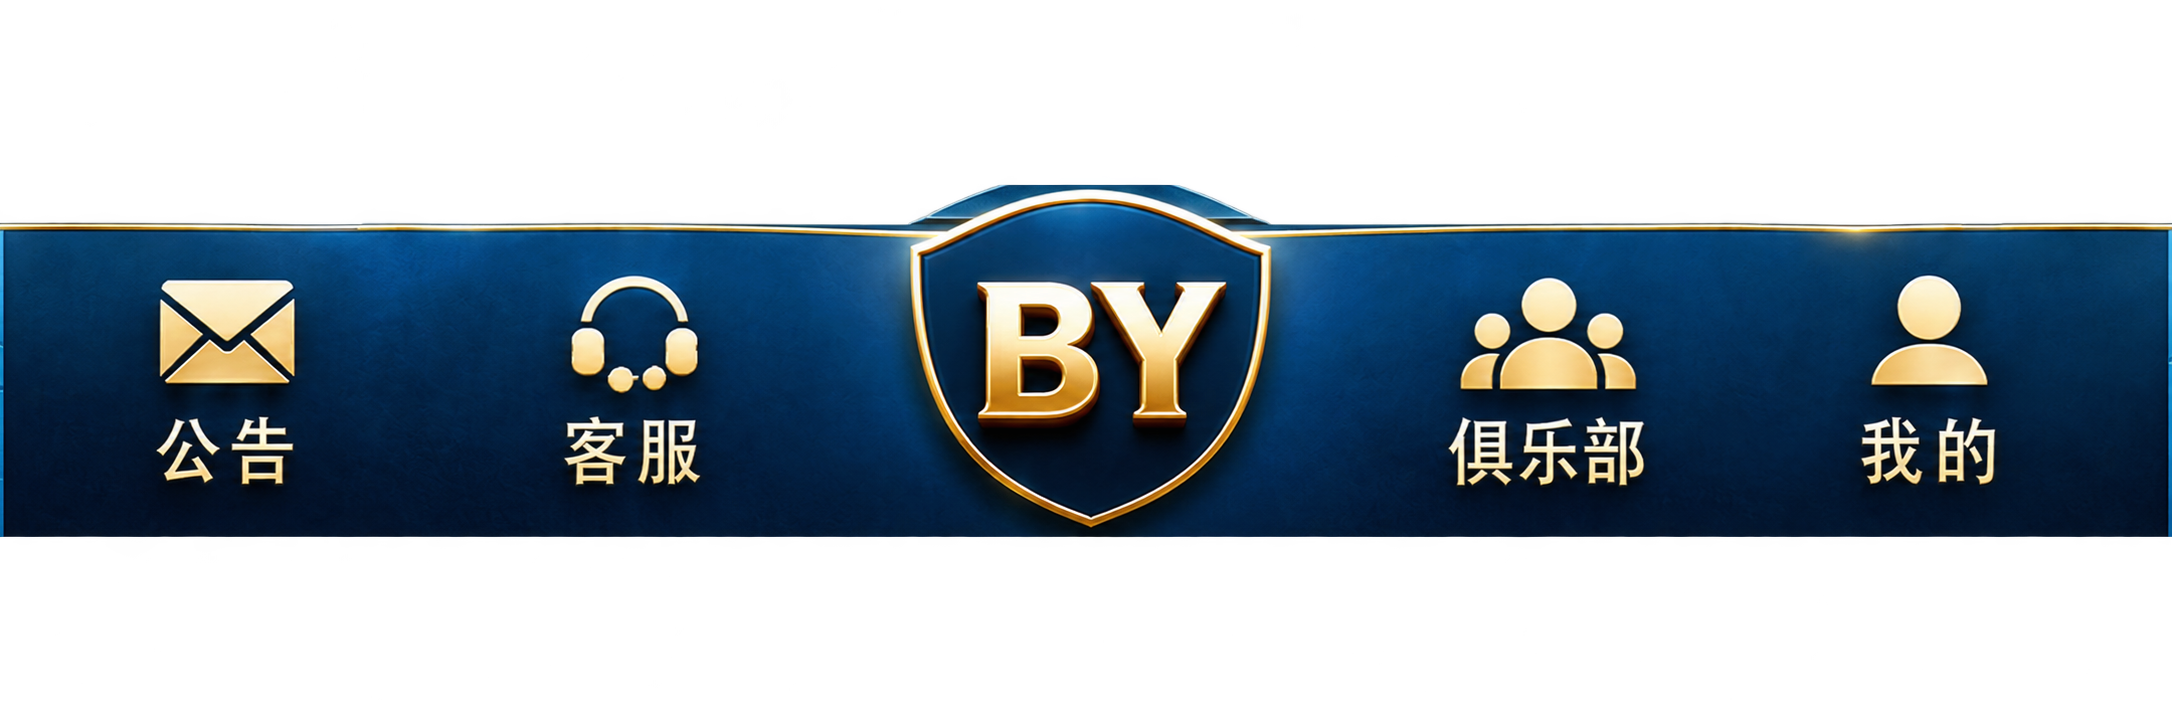
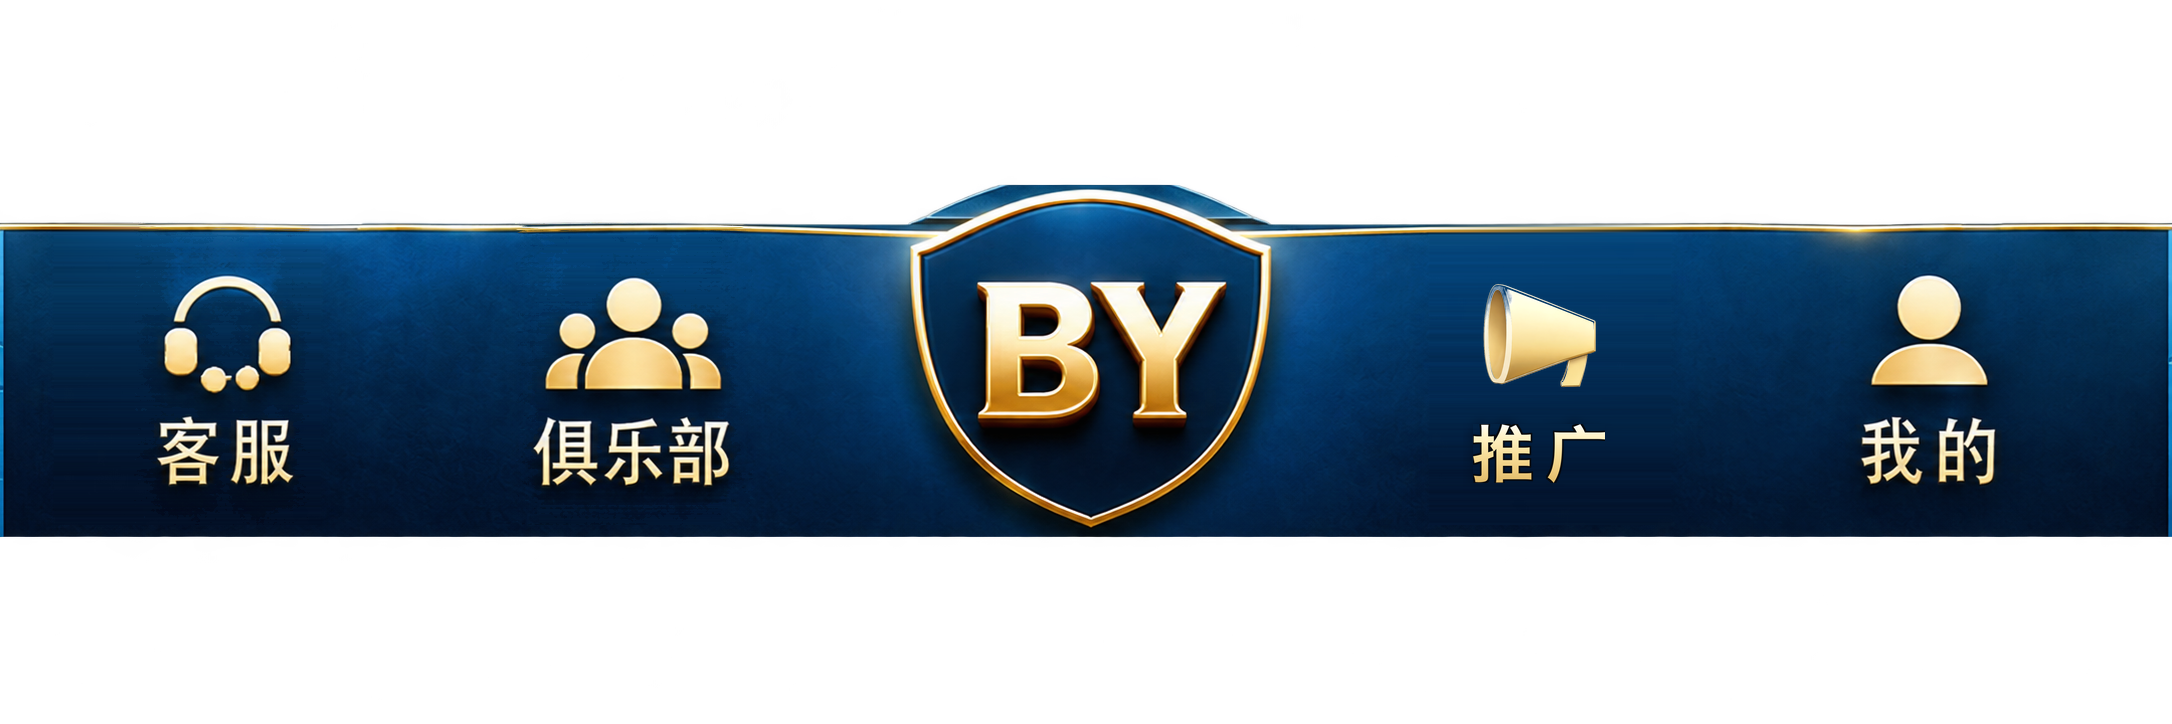
客户端：底栏改为客服 俱乐部 BY 推广 我的，隐藏「我的」里的游戏推广入口
- Down 重排 5 个入口并重绘 club_nav_bar_v8.png：客服/俱乐部换位、新增推广喇叭图标与标签、清掉公告；
  保留节点 id、Toggle/ToggleGroup、checkmark 与 .meta UUID。
- 推广复用全屏推广二维码页，打开收起底栏、关闭后恢复底栏并回到进入前分页；Main/公告 页保留但底栏不再进入。
- 「我的」列表里的游戏推广行隐藏，按钮区收为 3 行，滚动内容高 656→550、456→350，避免底部空白。

diff --git a/assets/scripts/UI/panelMain.ts b/assets/scripts/UI/panelMain.ts
@@ -313,9 +313,17 @@ export default class panelMain extends UIPanelViewBase {
         GameDataManager.getInstance().dtLastSuccess = new Date().getTime();
     }
 
+    /** 底部「推广」进入前所在的分页，关闭推广页后回到这里。 */
+    private promotionTabReturn:string = "";
+    /** 推广页是否顺带收起了底栏，关闭时按需恢复。 */
+    private promotionHidDown:boolean = false;
+    /** 当前 Main 分页名；推广页关闭后据此恢复底栏选中态。 */
+    private currentMainTab:string = "发现";
+
     /** 大厅初次打开或重新启用时，推广分享页必须保持关闭。 */
     private HidePromotionPanelOnLobbyOpen()
     {
+        this.promotionTabReturn = "";
         this.ClosePromotionPanel();
     }
 
@@ -339,6 +347,13 @@ export default class panelMain extends UIPanelViewBase {
         promotionPanel.active = true;
         if(this.promotionReturnPanel)
             this.promotionReturnPanel.active = false;
+        // 推广页背景不吞触摸，底栏留着会被点穿；它本来也被整页盖住，直接收起。
+        const down = this.node.getChildByName("Down");
+        if(down && down.active)
+        {
+            this.promotionHidDown = true;
+            down.active = false;
+        }
         return true;
     }
 
@@ -351,6 +366,11 @@ export default class panelMain extends UIPanelViewBase {
         this.promotionReturnPanel = null;
         if(cc.isValid(returnPanel) && returnPanel.parent === this.node.parent)
             returnPanel.active = true;
+        if(this.promotionHidDown)
+        {
+            this.promotionHidDown = false;
+            this.node.getChildByName("Down").active = true;
+        }
     }
 
     /** 推广页那一行显示的是「当前俱乐部邀请码」，没有俱乐部时整行（文字 + 复制按钮）都不显示。 */
@@ -858,15 +878,9 @@ export default class panelMain extends UIPanelViewBase {
         if(operation == null)
             return;
 
-        let isAgent = this.IsCurrentUserAgent();
         // 俱乐部模式不提供代理入口，包括旧 Prefab 中的同名节点。
         for(const child of operation.children)
             if(child.name === "代理") child.active = false;
-
-        // 游戏推广入口与代理入口同规则：非代理不显示，只有代理才显示。
-        let promotion = Tool.GetChild(operation,"推广二维码");
-        if(promotion != null)
-            promotion.active = isAgent;
 
         // 原生 Prefab Grid 按已激活入口自动补位，布局不再使用旧稿坐标。
     }
@@ -1024,6 +1038,8 @@ export default class panelMain extends UIPanelViewBase {
         }
         else if(button.node.name == "推广二维码")
         {
+            // 「我的」里的入口不算底栏选中，关闭后保持「我的」即可。
+            this.promotionTabReturn = "";
             this.OpenPromotionPanel();
         }
         else if(button.node.name === "保存二维码")
@@ -1081,7 +1097,14 @@ export default class panelMain extends UIPanelViewBase {
         else if(button.node.name === "关闭上上层")
         {
             if(button.node.parent.parent === this.node.getChildByName("推广二维码"))
+            {
+                const tab = this.promotionTabReturn;
+                this.promotionTabReturn = "";
                 this.ClosePromotionPanel();
+                // 从底栏「推广」进来的，关掉后把底栏选中态恢复到进入前的分页。
+                if(tab)
+                    this.switchTabSel(tab);
+            }
             else
                 button.node.parent.parent.active = false;
         }
@@ -1855,9 +1878,12 @@ export default class panelMain extends UIPanelViewBase {
             this.switchTabSel(toggle.node.name);
             this.getAllRooms();
         }
-        else if(toggle.node.name === "公告")
+        else if(toggle.node.name === "推广")
         {
-            this.switchTabSel(toggle.node.name);
+            // 推广是独立全屏分享页，不占用 Main 分页；关闭后回到进入前的分页。
+            this.promotionTabReturn = this.currentMainTab;
+            if(!this.OpenPromotionPanel())
+                this.switchTabSel(this.promotionTabReturn || "发现");
         }
         else if(toggle.node.name === "兑换")
         {
@@ -2177,16 +2203,20 @@ export default class panelMain extends UIPanelViewBase {
             this.walletReturnToCashWater = false;
         }
         let arrayTemp = this.node.getChildByName("Main").children;
+        let switchedToPage = false;
         arrayTemp.forEach((item,idx,array)=>{
             if(item.name == strName)
             {
                 item.active = true;
+                switchedToPage = true;
             }
             else
             {
                 item.active = false;
             }
         });
+        if(switchedToPage)
+            this.currentMainTab = strName;
 
         //复位Toggle
         let arrayToggle = this.node.getChildByName("Down").getComponentsInChildren(cc.Toggle);
@@ -2239,7 +2269,7 @@ export default class panelMain extends UIPanelViewBase {
             }
             if(view.height <= 0)
                 return;
-            // 内容高度按「有没有当前俱乐部卡片」取 656 / 456，统一由俱乐部视图计算。
+            // 内容高度按「有没有当前俱乐部卡片」取 550 / 350，统一由俱乐部视图计算。
             if(this.clubManagement)
                 this.clubManagement.syncProfileScroll();
             const scrollView = scroll.getComponent(cc.ScrollView);

diff --git a/assets/scripts/UI/ClubManagementView.ts b/assets/scripts/UI/ClubManagementView.ts
@@ -203,8 +203,8 @@ export default class ClubManagementView {
         this.syncProfileScroll(!!next.id);
     }
     /**
-     * 「我的」滚动区内容高度：有卡片时 656（按钮区 419.76 + 间距 12 + 卡片 200 + 底部留白 24），
-     * 无卡片时去掉卡片与间距只剩 456；内容不高于可视区时撑满 view，避免可滚动的空白。
+     * 「我的」滚动区内容高度：有卡片时 550（按钮区 314.05 + 间距 12 + 卡片 200 + 底部留白 24），
+     * 正好等于可视区高度；无卡片时只剩按钮区 350，内容不高于可视区时撑满 view，避免可滚动的空白。
      */
     public syncProfileScroll(hasClub?:boolean):void {
         if(hasClub === undefined) {
@@ -215,7 +215,7 @@ export default class ClubManagementView {
         const view = this.at("Main/我的/滚动区/view");
         if(!content) return;
         const viewHeight = view ? view.height : 0;
-        const height = Math.max(hasClub ? 656 : 456,viewHeight);
+        const height = Math.max(hasClub ? 550 : 350,viewHeight);
         if(Math.abs(content.height - height) > 0.5) content.height = height;
         // content 顶部锚点，贴住 view 顶边；否则缩高后内容会整体下移。
         if(view) content.setPosition(0,viewHeight / 2);

diff --git a/docs/memory/CURRENT.md b/docs/memory/CURRENT.md
@@ -4,6 +4,12 @@
 
 规则见 `AGENTS.md`；版本与 UI 见 [决策](DECISIONS.md)、[专题](topics/v7-ui.md)。未发布与待验证汇总见[剩余问题清单](handoffs/2026-10-28-open-issues-backlog.md)。客服网页已部署、真机待验：[交接](handoffs/2026-09-24-chat-keyboard-visibility.md)。
 
+## 2026-10-30 大厅底栏改「客服 俱乐部 BY 推广 我的」（未构建、未真机）
+
+- `Down` 改为 客服/俱乐部/BY/推广/我的（原「公告」toggle 改名推广，客服仍是 Button）；`Main/公告` 分页保留但底栏不再进入。
+- `club_nav_bar_v8.png` 重绘并清掉公告区，`.meta`/UUID 未动、体积未增；推广复用全屏 `推广二维码` 页，打开收起底栏、关闭回原页。
+- 「我的」里的游戏推广行隐藏（按钮区 3 行、内容高 550，正好不滚）。见[交接](handoffs/2026-10-30-nav-tabs.md)。
+
 ## 2026-10-30 机器人账号首次登录激活（已部署，未提交）
 
 - 问题：新建机器人只写营销表，游戏库 `kbe_accountinfos` 玩家行由首次登录生成；没登录过的账号入会回「玩家不存在」，
@@ -13,20 +19,18 @@
   登录成功后回查游戏库确认建号才落 `activated_at`、收回节点并自动补入会。失败记原因、让出节点，60 秒冷却、最多 10 次。
 - 投放：未激活行不可勾选，直接提交回 `409 ROBOT_NOT_ACTIVATED`；分组投放只取已激活账号。机器人管理显示未激活与原因，
   并加「激活」动作（重置冷却）。
-- 已部署：后端 `0c602dbd…`（PID 15511，健康 200）、前端 `index-BgH2Ot-G.js` / `index-BvCWh9Hq.css`；
-  回滚 `backups/xuanmanager.20261030-0108-rollback`、`web.previous-activation-20261030`。
+- 已部署：后端 `0c602dbd…`、前端 `index-BgH2Ot-G.js` / `index-BvCWh9Hq.css`；回滚 `backups/xuanmanager.20261030-0108-rollback`、`web.previous-activation-20261030`。
 - **真实激活未演练**：唯一 Worker `mac-mini-2-local` 自 10-28 离线；本机 `bin/xuanagent` 已重建（含 `XUAN_LOGIN_ONLY`），待启动。
   见[交接](handoffs/2026-10-30-account-activation.md)。
 
 ## 2026-10-29 投放输赢目标支持「按周时段」（已部署，未提交）
 
-- 输赢目标新增 `profit_mode='schedule'`：周一到周日勾选，每天可多段（≤28），结束早于开始=跨零点算开始那天。时段内按 `window_net` 控输赢（结算累加、换时段清零）；时段外先下发 `drain` 打完手里一局，离房后让出 Worker（`schedule_state='released'` 分配时跳过），到点复位。
-- 迁移 039 加 `profit_schedule/schedule_window/window_net/schedule_state`；后端 `automation_schedule.go` 接巡检、投放、编辑、指派；节点 `terminal.go` 支持 drain，客户端排空前打完最后一局。前端加时段编辑器接入投放/配置。
-- 验证：`go vet`/`go build`、`tsc -b`/eslint/`vite build` 通过；跨零点/星期归属用临时 Go 测试验证后删除。后端（039 已执行）与前端已上线；**交互未实测，Worker 未重启**。见[交接](handoffs/2026-10-29-profit-weekly-schedule.md)。
+- 输赢目标新增 `profit_mode='schedule'`：周一到周日可多段（≤28，结束早于开始算跨零点），时段内按 `window_net` 控输赢，时段外先 `drain` 打完手里一局再让出 Worker（`schedule_state='released'`）。
+- 迁移 039（`profit_schedule/schedule_window/window_net/schedule_state`）已执行，后端与前端已上线，`go vet/build`、`tsc -b`、eslint、`vite build` 通过；**交互未实测，Worker 未重启**。见[交接](handoffs/2026-10-29-profit-weekly-schedule.md)。
 
 ## 2026-10-29 控制台小步调整（已部署，未提交）
 
-- 侧边栏一级/二级配色区分；「自动化组」模块 45 隐藏，分组增删改并入**机器人管理 → 分组管理**（建组只填名称+策略；删组可搬走组内机器人，`DELETE /api/automation/groups/{id}?moveToGroupId=N`）；创建/编辑机器人弹窗可内联新建分组并自动选中。
+- 侧边栏一级/二级配色区分；「自动化组」模块 45 隐藏，分组增删改并入**机器人管理 → 分组管理**（建组只填名称+策略；删组可搬走组内机器人）；创建/编辑机器人弹窗可内联新建分组并自动选中。
 - 回滚点 `web.previous-navlevels-20261029`、`web.previous-groupmanager-20261029`。**交互待实测**。见[侧边栏](handoffs/2026-10-29-sidebar-level-contrast.md)、[分组管理](handoffs/2026-10-29-group-manager-in-robots.md)、[删组搬迁](handoffs/2026-10-29-group-delete-move.md)、[组策略](handoffs/2026-10-29-group-strategy-only.md)、[内联建组](handoffs/2026-10-29-robot-inline-group-create.md)。
 
 ## 2026-10-29 机器人密码改回密文 + 独立密钥（已部署，未提交）
@@ -45,7 +49,7 @@
 ## 2026-10-29 牌桌小修与实时战绩（未构建、未真机）
 
 - 留座归零 fire `SelfSeatTimeout` 关「带入窗口」，`PlayerList` 后兜底收窗；俱乐部房隐藏 `RoomFrame/info/游戏时间`。见[交接](handoffs/2026-10-29-seat-timeout-close-buyin.md)、[交接](handoffs/2026-10-29-club-room-hide-clock.md)。
-- 「记录」在座行加第 4 列 `countdown`，追加 `获取_房间_已结算_玩家_命令`（每页 20）滑到底自动翻页；`带入记录.prefab` 改 4 列 + `V8表头countdown`。见[交接](handoffs/2026-10-29-realtime-settled-list.md)。
+- 「记录」在座行加第 4 列 `countdown`，`获取_房间_已结算_玩家_命令`（每页 20）滑到底翻页；`带入记录.prefab` 改 4 列 + `V8表头countdown`。见[交接](handoffs/2026-10-29-realtime-settled-list.md)。
 
 ## 2026-10-27～28 自动化（阶段归档）
 
@@ -55,8 +59,7 @@
 
 ## 2026-10-27 客户端 / 后台小项
 
-- 「我的」页下半部分改可滚动（`Main/我的` 新增 `滚动区 > view > content`）；已传 `5.0.31`，**真机未验**。见[交接](handoffs/2026-10-27-my-page-scroll.md)。
-- 游戏推广下载地址接入「系统配置」，读写 `kbedm.usr_hash_info.下载url`，写前快照/写后回读/写审计。见[交接](handoffs/2026-10-27-promotion-download-url.md)。
+- 「我的」页下半部分改可滚动（`Main/我的` 新增 `滚动区 > view > content`，已传 `5.0.31`、**真机未验**）；推广下载地址接入系统配置（写前快照/写后回读/写审计）。见[滚动](handoffs/2026-10-27-my-page-scroll.md)、[下载地址](handoffs/2026-10-27-promotion-download-url.md)。
 
 ## 2026-10-26 及更早（阶段归档）
 
@@ -65,7 +68,7 @@
 
 ## 本轮实时核对：记忆整理
 
-目录 `/Volumes/SSD/qing`，Creator 2.4.13，`build` 与 `runtime-src.zip` 保留。见[整理交接](handoffs/2026-09-05-memory-migration.md)。
+目录 `/Volumes/SSD/qing`，Creator 2.4.13。见[整理交接](handoffs/2026-09-05-memory-migration.md)。
 
 ## 最近报告的 UI 状态
 

diff --git a/docs/memory/handoffs/2026-10-30-nav-tabs.md b/docs/memory/handoffs/2026-10-30-nav-tabs.md
@@ -1,0 +1,36 @@
+# 2026-10-30 大厅底栏改「客服 俱乐部 BY 推广 我的」
+
+## 目标与范围
+
+- 目录：`/Volumes/SSD/qing`；分支：`codex/club-ui`；Creator 2.4.13。
+- 需求：底栏由「公告 客服 BY 俱乐部 我的」改为「客服 俱乐部 BY 推广 我的」，美术风格不变。
+
+## 改动
+
+- `assets/resources/UI/panelMain.prefab`：`Down` 下 5 个入口只改节点名与 x，保留全部节点 id、Toggle/ToggleGroup、checkmark 与事件：
+  客服 -297.68862911795964（仍是 cc.Button，无 checkmark）、俱乐部 -156.615302869288、发现 0（BY）、推广 156.615302869288（原「公告」toggle 改名）、我的 292.1094580233794。
+  `Main/公告` 分页节点保留，底栏不再进入。
+- `assets/V7/club_nav_bar_v8.png`：按原图重绘。客服行移到原公告位、俱乐部行移到原客服位、公告整组清除并补背景，
+  右侧新增 AI 金喇叭图标（122×111）+ PIL 渲染的「推广」标签（132×59，Hiragino Sans GB W6、奶油金渐变、黑描边、投影）。
+  `.meta` 未改（UUID `880f6e71-…`、2172×724），体积 983584 → 881205 字节。
+- `assets/scripts/UI/panelMain.ts`：
+  - `onToggleClick` 的「公告」分支改为「推广」：不切 Main 分页，记录 `currentMainTab` 后 `OpenPromotionPanel()`；打不开则回原分页。
+  - `OpenPromotionPanel` 打开时收起 `Down`（推广页背景不吞触摸，留着会被点穿）；`ClosePromotionPanel` 按需恢复。
+  - 「关闭上上层」关闭推广页后 `switchTabSel(原分页)` 恢复底栏选中；「我的 → 推广二维码」入口不记返回分页。
+  - `switchTabSel` 记录 `currentMainTab`（仅切到真实 Main 分页时更新）。
+- 「我的」列表里的「游戏推广」行（`Main/我的/滚动区/view/content/操作/推广二维码`，节点 703）改为 Prefab `_active: false`，
+  `RefreshAgentMenuVisibility` 删除「代理才显示」的还原逻辑（否则代理用户会重新看到）。入口统一走底栏「推广」。
+- 随之收紧「我的」布局：`操作`（611）高 419.76→314.05、y -209.88→-157.025、Widget bottom 235.95；
+  `当前俱乐部`（719）Widget top 431.78→326.05、y -531.78→-426.05；`ClubManagementView.syncProfileScroll` 内容高 656→550、456→350
+  （550 正好等于 view 高度，有卡片时不再需要滚动）。
+
+## 验证
+
+- 静态：prefab JSON 可解析（3876 个顶层对象），`git diff` 仅坐标/尺寸/名称 + TS 逻辑；全仓无 `switchTabSel("公告")` 或 `name === "公告"` 残留。
+- 「我的」按钮区剩 6 个入口（赠送/资金明细/兑换钻石/钻石流向/战绩/设置）按 Grid 两列排 3 行，行高 101.17+100.44+100.44 + 2×6 = 314.05，与卡片间距 12、卡片 200、底部 24 合计 550。
+- 美术：2172px 与 750px 预览核对顺序、位置、遮挡带（内容 y≈185–539 落在 Mask 内），标签色接近「我的」；素材体积未增。
+- 未运行 Creator 预览、未构建、未真机；未提交。
+
+## 下一步
+
+- Creator 打开 `panelMain.prefab` 确认 `完整导航图` 已刷新、5 个入口位置与点击区对齐；真机确认 推广 tab 打开/关闭后底栏恢复、选中态回到进入前分页，客服按钮不误选。
